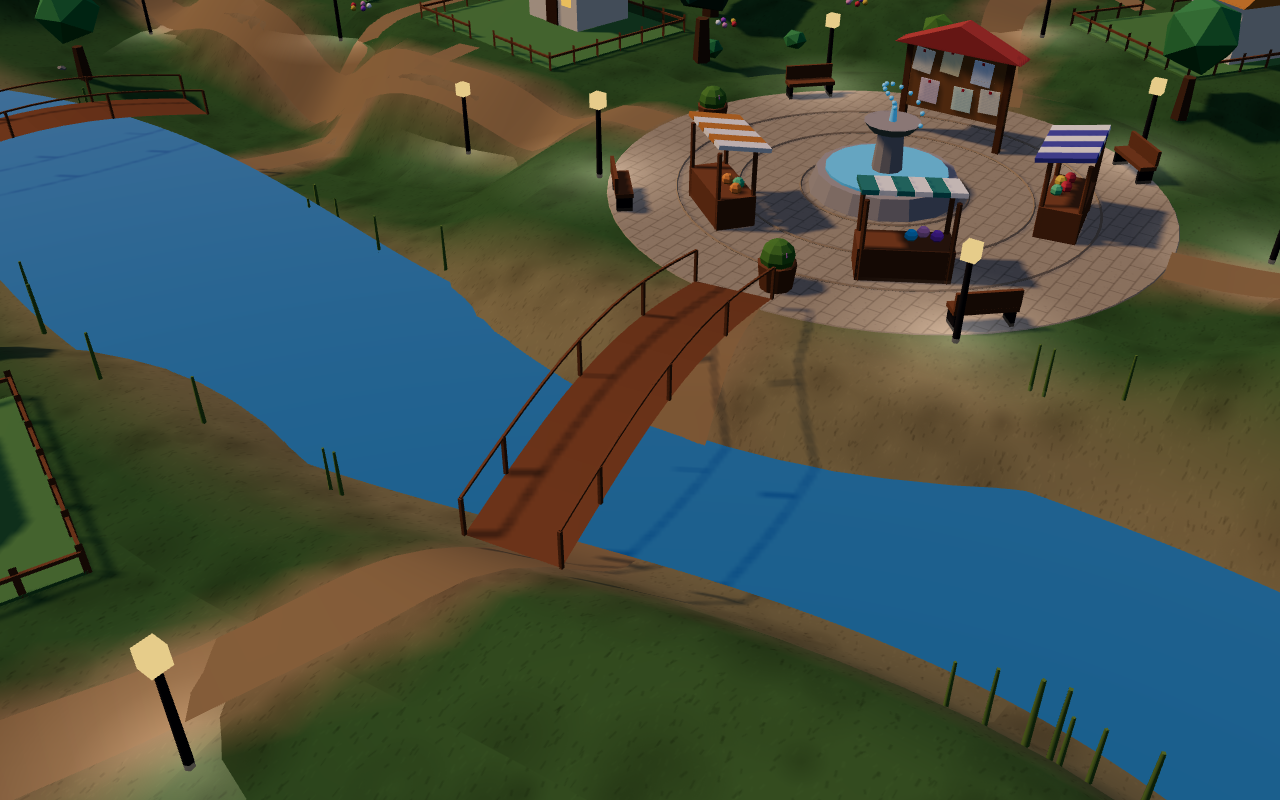
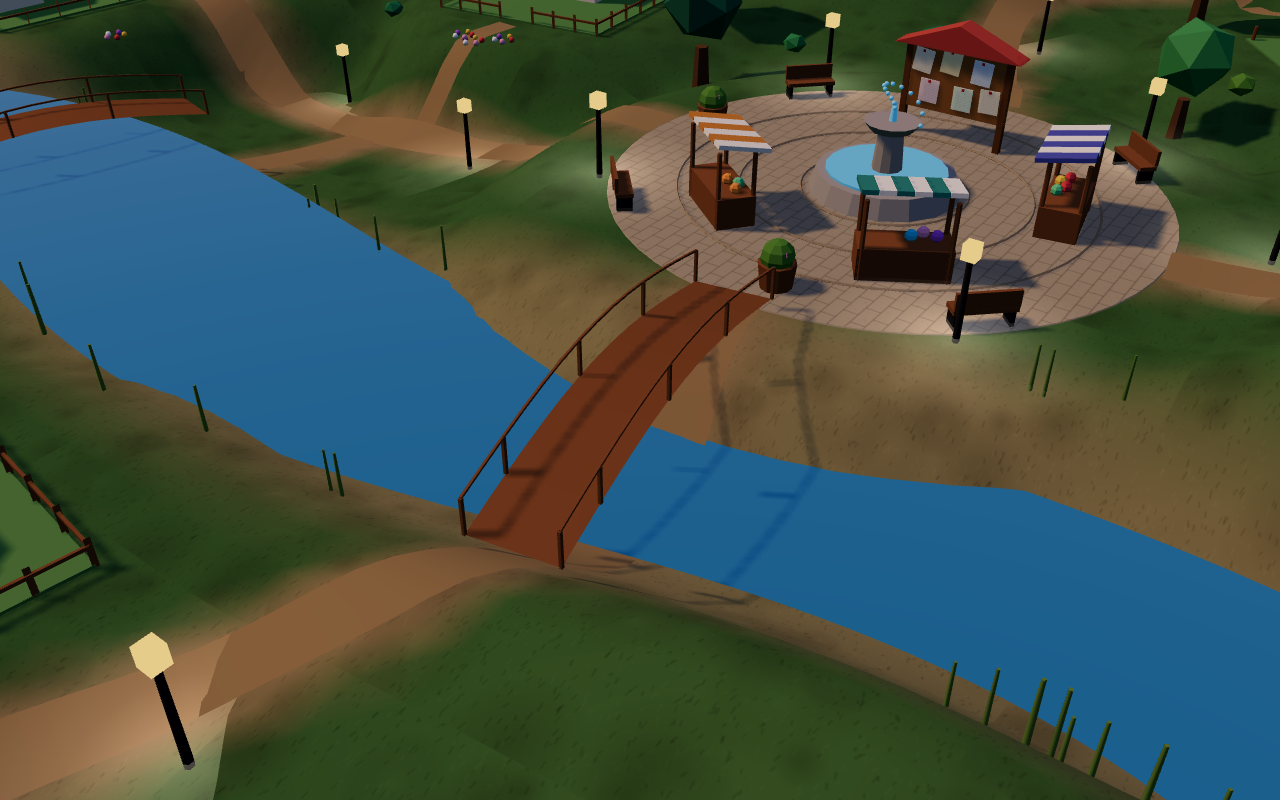
L.8 höchstens 40 % der Figuren am Platz
Ist der Platz voll, wählen Figuren ein Wegenetz-Ziel statt Brunnen oder Tafel.

diff --git a/web/src/avatars/behaviour.ts b/web/src/avatars/behaviour.ts
@@ -15,11 +15,15 @@ export type Action =
 /** Fixed English greetings (SPEC §11: only these words, nothing typed by pupils). */
 export const GREETINGS = ['Hi!', 'Hello!', 'Hey!', 'Good morning!', 'How are you?'] as const;
 
+/** At most this share of the villagers may stand on the plaza at the same time (SPEC §11). */
+export const PLAZA_SHARE_MAX = 0.4;
+
 /**
  * Chooses the next action for a villager standing on node `from`.
  * Weights: wander 50 %, bench 20 %, fountain 10 %, board 10 %, another home 10 %.
+ * When `plazaFull` is true, the fountain and board goals become wandering goals instead.
  */
-export function nextAction(rng: Rng, graph: WalkGraph, from: number): Action {
+export function nextAction(rng: Rng, graph: WalkGraph, from: number, plazaFull = false): Action {
   const roll = rng();
   let goal: number;
   if (roll < 0.5) {
@@ -30,9 +34,9 @@ export function nextAction(rng: Rng, graph: WalkGraph, from: number): Action {
     if (path.length > 0) return { kind: 'walk', path: path.concat() };
     goal = from;
   } else if (roll < 0.8) {
-    goal = pick(rng, graph.fountains, -1);
+    goal = plazaFull ? pick(rng, graph.wander, from) : pick(rng, graph.fountains, -1);
   } else if (roll < 0.9) {
-    goal = graph.board;
+    goal = plazaFull ? pick(rng, graph.wander, from) : graph.board;
   } else {
     goal = pick(rng, graph.homes, -1);
   }

diff --git a/web/src/render/crowd.ts b/web/src/render/crowd.ts
@@ -8,7 +8,14 @@ import { bakeStatic } from './merge';
 import { createRng, type Rng } from '../world/rng';
 import type { Layout } from '../world/layout';
 import { walkHeight } from '../world/walk';
-import { arrivalAction, greetingFor, nextAction, Walker, type Action } from '../avatars/behaviour';
+import {
+  arrivalAction,
+  greetingFor,
+  nextAction,
+  PLAZA_SHARE_MAX,
+  Walker,
+  type Action,
+} from '../avatars/behaviour';
 
 const WALK_SPEED = 2.2; // world units per second
 const GREET_RANGE = 3.2;
@@ -240,8 +247,19 @@ export class Crowd {
     return path.length ? path[path.length - 1] : v.node;
   }
 
+  /** Share of villagers standing on the plaza (fountain, board or plaza ring). */
+  private plazaShare(): number {
+    if (this.villagers.length === 0) return 0;
+    const onPlaza = this.villagers.filter((v) => {
+      const tag = this.layout.graph.nodes[v.node].tag;
+      return tag === 'fountain' || tag === 'board' || tag === 'plaza';
+    }).length;
+    return onPlaza / this.villagers.length;
+  }
+
   private startNext(v: Villager): void {
-    const action = nextAction(v.rng, this.layout.graph, v.node);
+    const full = this.plazaShare() >= PLAZA_SHARE_MAX;
+    const action = nextAction(v.rng, this.layout.graph, v.node, full);
     v.action = action;
     if (action.kind === 'walk') {
       v.walkPath = action.path;

diff --git a/web/tests/avatars/behaviour.test.ts b/web/tests/avatars/behaviour.test.ts
@@ -1,7 +1,14 @@
 import { describe, it, expect } from 'vitest';
 import { buildLayout } from '../../src/world/layout';
 import { createRng } from '../../src/world/rng';
-import { arrivalAction, greetingFor, GREETINGS, nextAction, Walker } from '../../src/avatars/behaviour';
+import {
+  arrivalAction,
+  greetingFor,
+  GREETINGS,
+  nextAction,
+  PLAZA_SHARE_MAX,
+  Walker,
+} from '../../src/avatars/behaviour';
 
 describe('nextAction', () => {
   const layout = buildLayout(11, 24);
@@ -21,6 +28,20 @@ describe('nextAction', () => {
         expect(a.kind).toBe('idle');
       }
     }
+  });
+
+  it('a full plaza sends nobody to the fountain or the board', () => {
+    const rng = createRng(3);
+    const start = graph.wander[0];
+    for (let i = 0; i < 300; i++) {
+      const a = nextAction(rng, graph, start, true);
+      if (a.kind === 'walk') {
+        const end = a.path[a.path.length - 1];
+        expect(graph.nodes[end].tag).not.toBe('fountain');
+        expect(graph.nodes[end].tag).not.toBe('board');
+      }
+    }
+    expect(PLAZA_SHARE_MAX).toBe(0.4);
   });
 
   it('is deterministic for the same random sequence', () => {

diff --git a/docs/PLAN.md b/docs/PLAN.md
@@ -224,3 +224,4 @@ Ziel: Schüler kaufen Deko und gestalten ihr Grundstück; Mitschüler sehen es.
 | 17.10.2026 | I.3 erledigt | Lehrer-Bereich je Instanz: Dorf-Vorlage und Seed (`set_layout`), Spielregeln (Stempel, Tageslimit, Versuche, Raster; `set_class_rules`), verkaufte Shop-Artikel (`set_item_sold`). Umschalter 8a/8b war schon vorhanden. `0011_instance_rules.sql` auf dem Projekt angewendet, 4 SQL-Tests grün. Vorschau des Dorfes im Lehrer-Bereich fehlt noch (Galerie als Ersatz) |
 | 17.10.2026 | L.4 teilweise | Wahrzeichen sind Wegeziele im Graph (`landmarks`, Test: alle erreichbar) und werden gezeichnet (`render/landmarks.ts`: Aussichtsbank, Steg, Windmühle, Obstwiese, Waldhütte). Brücken gebogen. Offen: **Sackgassen**: je Vorlage 1–2 Wegenden ohne Anschluss (`tal`: (-42,-42), (56,4); `fluss_mitte`: (-58,-18); `bach_norden`: (60,8), (40,-16), (-56,8)). Lösung in den Vorlagen (Weg bis Wahrzeichen oder Nachbarweg verlängern), dann Test „keine Sackgassen“ |
 | 17.10.2026 | L.4 Sackgassen, L.8 Namen | Sackgassen geschlossen: je Vorlage Verbindungswege (`connector`-Lanes in `world/maps/*.ts`), Test `tests/world/dead-ends.test.ts` grün. L.8 Namen: eigenes Haus immer, fremde Hausnamen nur unter 28 m (`render/village.ts` `labelUpdate`), Figuren-Schilder unter 28 m (`Crowd.updateLabels` in `render/crowd.ts`), Aufruf in der Animationsschleife (`ui/villageView.ts`). Offen: Figuren am Platz < 40 % prüfen, Name beim Antippen, Zielverteilung |
+| 17.10.2026 | L.8 Figuren am Platz | Höchstens 40 % der Figuren stehen gleichzeitig am Brunnen, an der Tafel oder auf dem Platzring (`PLAZA_SHARE_MAX` in `avatars/behaviour.ts`, Prüfung in `render/crowd.ts`). Ist der Platz voll, wählen Figuren stattdessen ein Ziel im Wegenetz. Vitest: volle Platz-Regel schickt niemanden dorthin (249 Tests grün). Offen: Name beim Antippen, Zielverteilung Wahrzeichen/Freunde |
